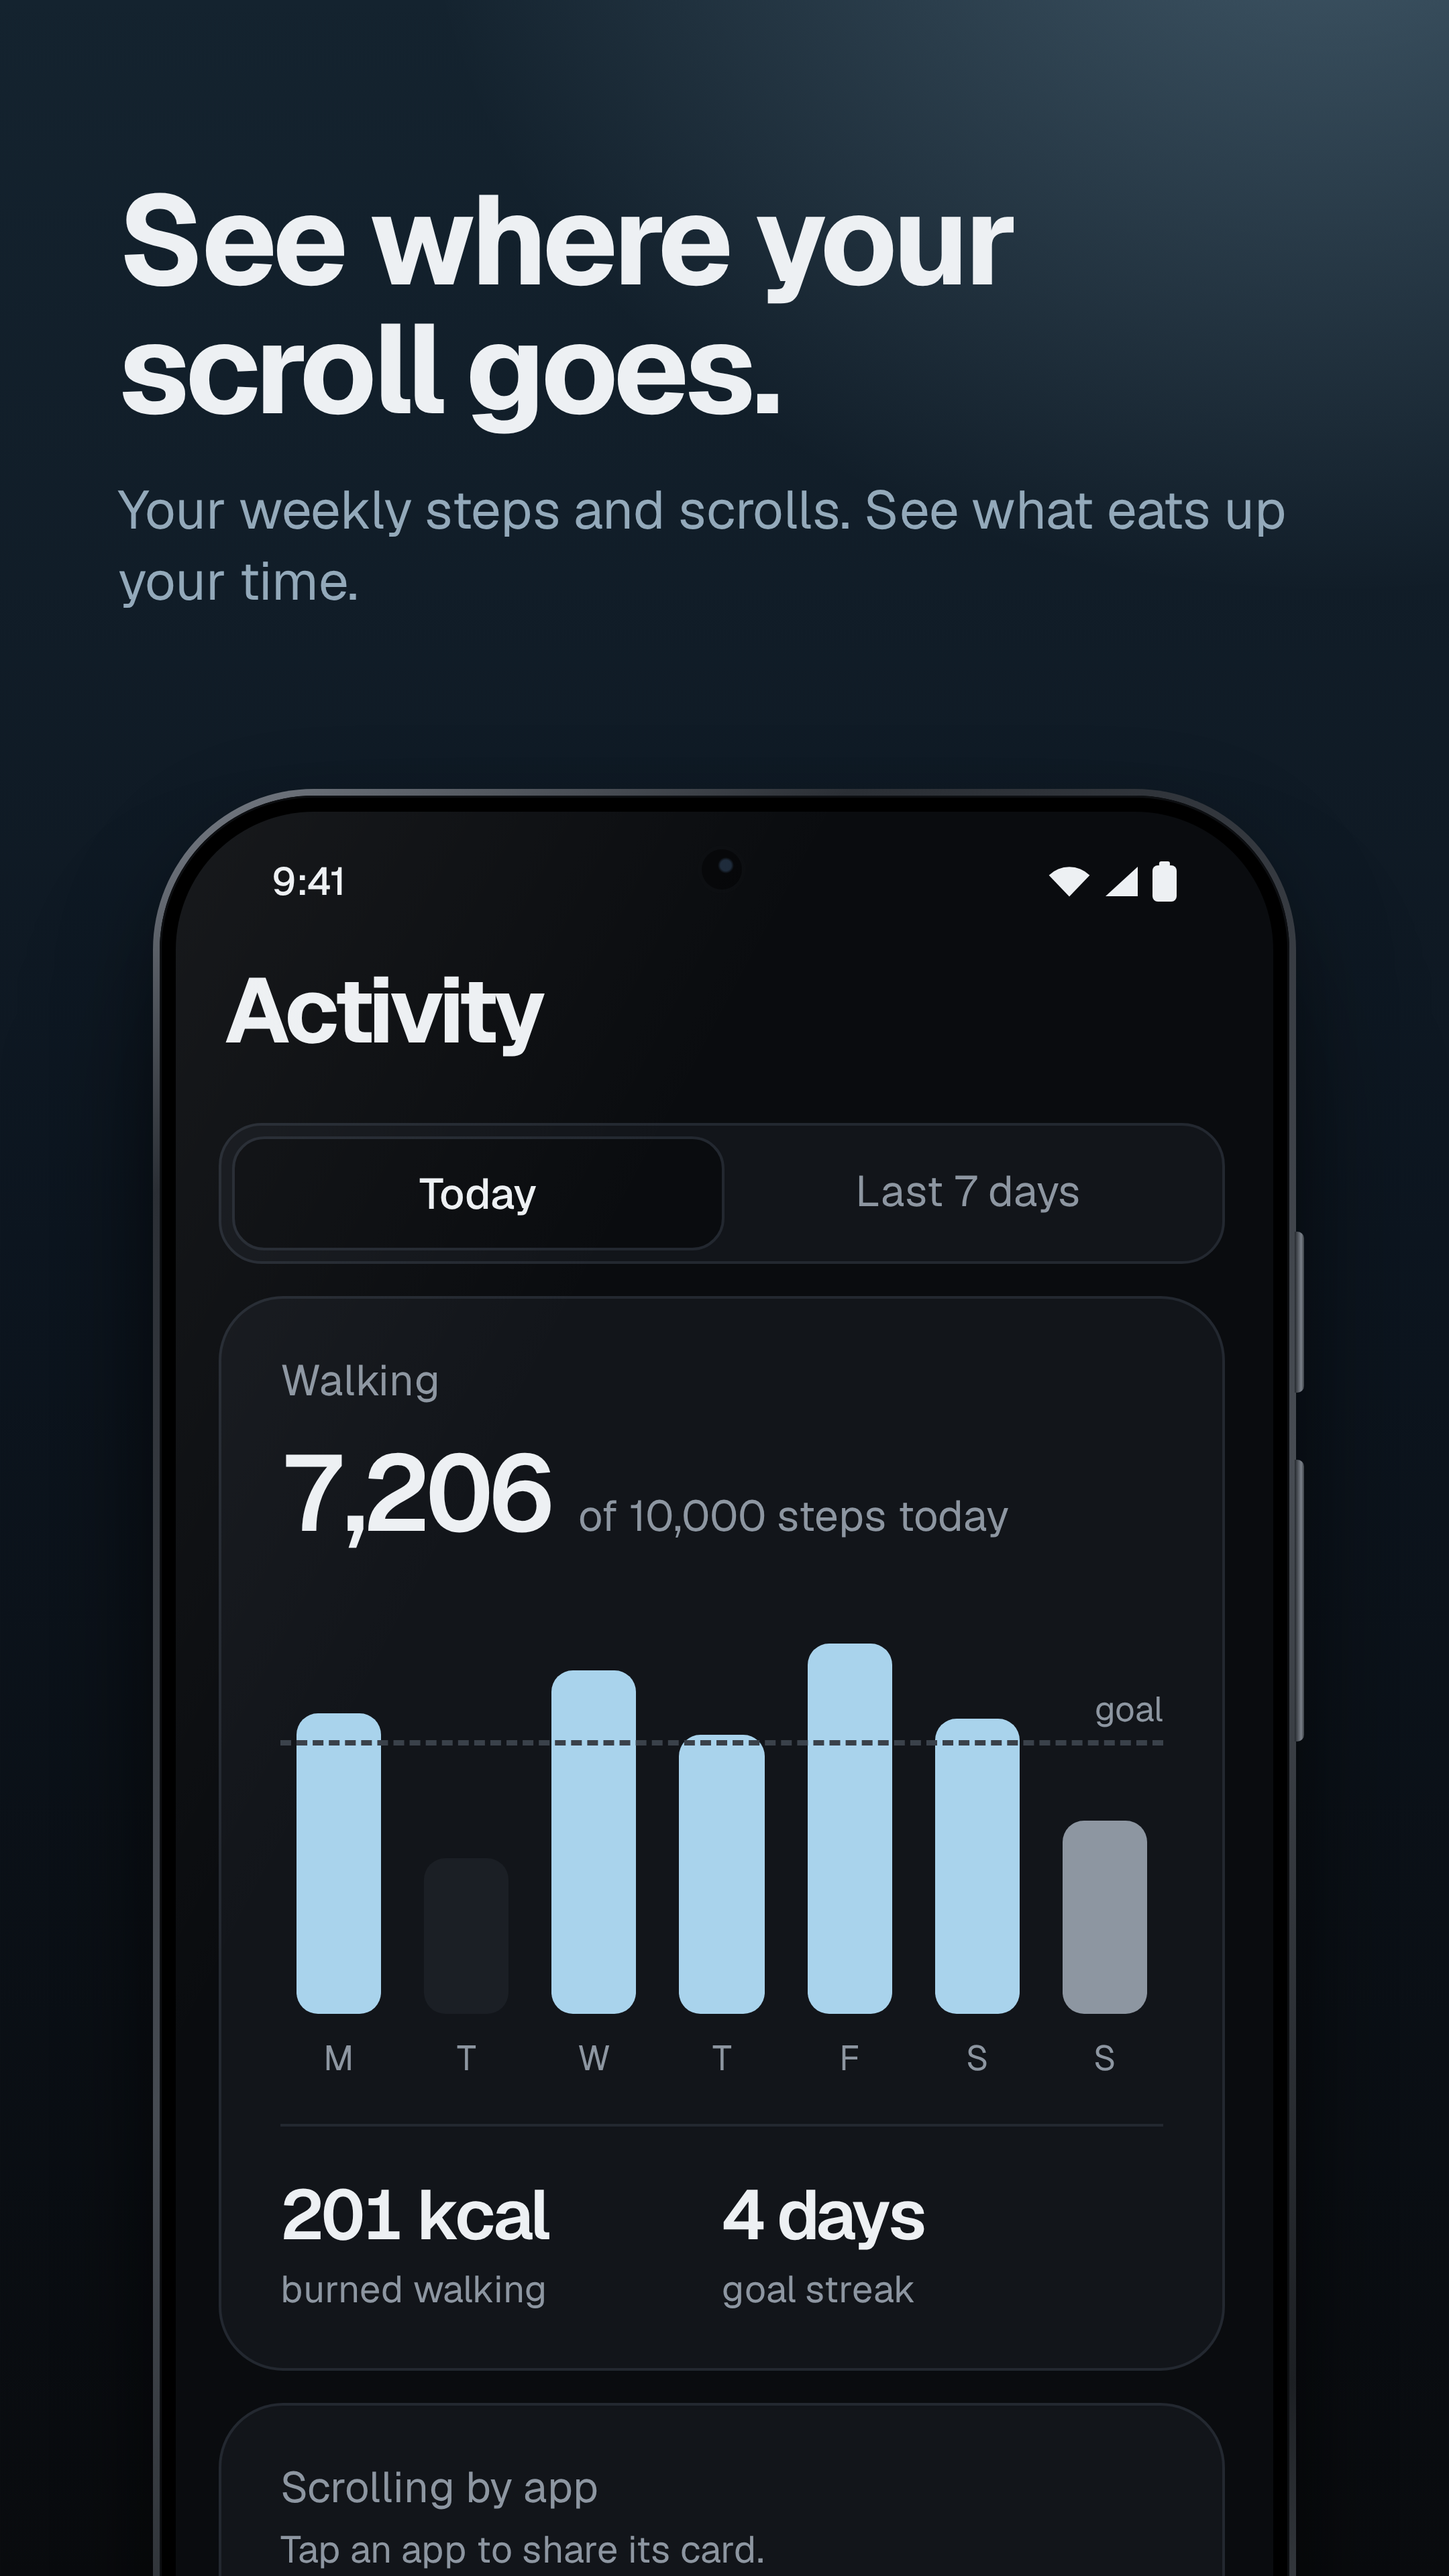
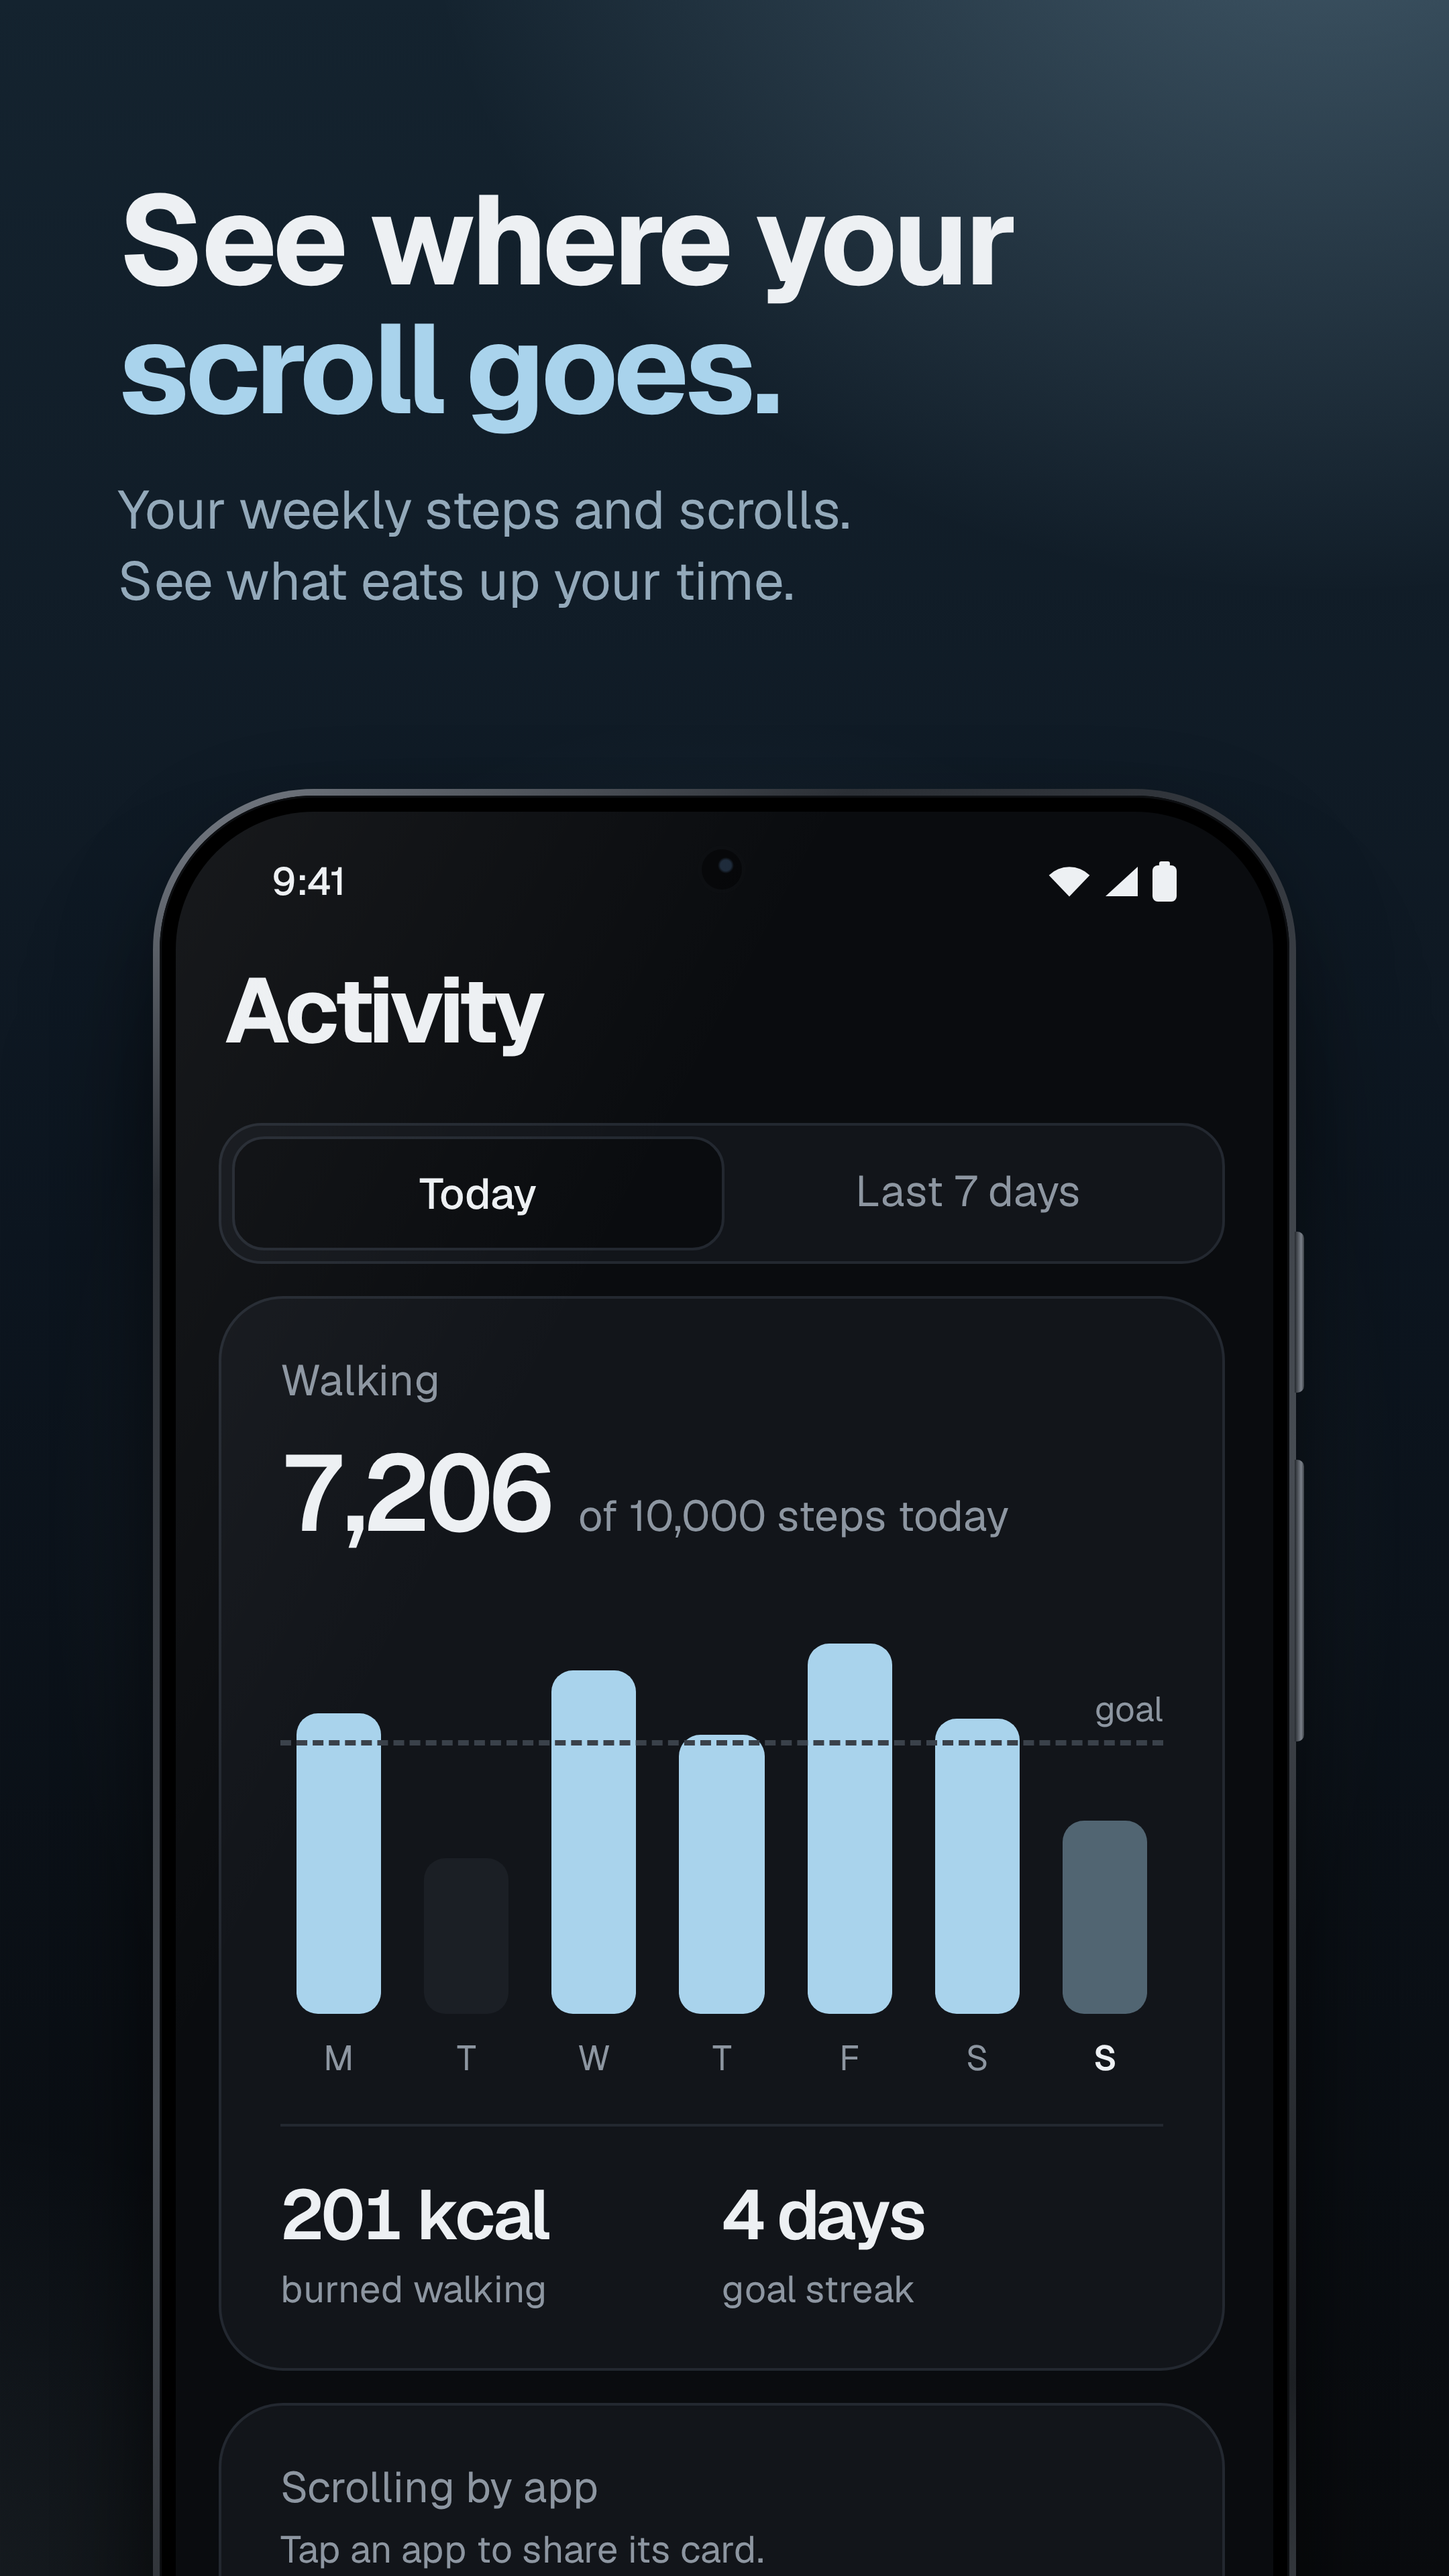
update google play store graphics

diff --git a/docs/graphics/src/graphics.html b/docs/graphics/src/graphics.html
@@ -25,14 +25,16 @@ body { margin: 0; background: #333; font-family: Geist, sans-serif; color: var(-
 
 /* ---------- canvas ---------- */
 .shot {
-  width: 1080px; height: 1920px; position: relative; overflow: hidden; margin-bottom: 40px;
+  width: 1080px; height: 1920px; position: relative; overflow: hidden; isolation: isolate; margin-bottom: 40px;
   background:
     radial-gradient(1100px 900px at 92% -6%, rgba(169,211,236,.30), rgba(169,211,236,0) 62%),
+    radial-gradient(900px 700px at -10% 104%, rgba(169,211,236,.10), rgba(169,211,236,0) 60%),
     linear-gradient(180deg, #14232f 0%, #0d1620 48%, #0A0C0F 100%);
 }
 .head { position: absolute; left: 88px; right: 88px; top: 132px; }
 .head h1 { margin: 0; font-size: 94px; line-height: 1.02; letter-spacing: -3px; font-weight: 700; color: var(--text); }
-.head p { margin: 30px 0 0; font-size: 40px; line-height: 1.32; color: var(--onHeroMuted); letter-spacing: -.2px; }
+.head h1 em, .feature h1 em { font-style: normal; color: var(--accent); }
+.head p { text-wrap: balance; margin: 30px 0 0; font-size: 40px; line-height: 1.32; color: var(--onHeroMuted); letter-spacing: -.2px; }
 
 /* ---------- phone: thin metal rail, slim black bezel, side keys ---------- */
 .phone {
@@ -41,6 +43,8 @@ body { margin: 0; background: #333; font-family: Geist, sans-serif; color: var(-
   background: linear-gradient(150deg, #7a8089 0%, #2b2f35 14%, #474c53 46%, #1c1f23 78%, #686e76 100%);
   box-shadow: 0 90px 160px -40px rgba(0,0,0,.8), 0 30px 70px rgba(0,0,0,.35);
 }
+.phone::before { content: ""; position: absolute; inset: -60px -80px 30%; z-index: -1; border-radius: 50%;
+  background: radial-gradient(closest-side, rgba(169,211,236,.16), rgba(169,211,236,0)); }
 .phone .key { position: absolute; right: -6px; width: 7px; border-radius: 0 5px 5px 0;
   background: linear-gradient(90deg, #25292e, #7a8089 70%, #3a3f45); }
 .phone .key.p { top: 330px; height: 120px; }
@@ -91,7 +95,7 @@ body { margin: 0; background: #333; font-family: Geist, sans-serif; color: var(-
 .climb { padding: 22px; }
 .climb .pct { font-size: 32px; font-weight: 600; letter-spacing: -1px; }
 .climb .of { font-size: 16.5px; line-height: 1.35; margin-top: 2px; }
-.climb .rest { font-size: 14px; color: var(--muted); margin-top: 8px; line-height: 1.45; }
+.climb .rest { text-wrap: pretty; font-size: 14px; color: var(--muted); margin-top: 8px; line-height: 1.45; }
 .climb hr { border: 0; border-top: 1px solid var(--hairline); margin: 14px 0; }
 
 /* instagram-style feed */
@@ -151,7 +155,7 @@ body { margin: 0; background: #333; font-family: Geist, sans-serif; color: var(-
 .chart { position: relative; height: 150px; display: flex; align-items: flex-end; gap: 16px; padding: 0 6px; margin-top: 18px; }
 .chart .b { flex: 1; border-radius: 8px; background: var(--accent); }
 .chart .b.lo { background: #1b1f25; }
-.chart .b.cur { background: #8D96A1; }
+.chart .b.cur { background: rgba(169,211,236,.42); }
 .chart .goal { position: absolute; left: 0; right: 0; border-top: 2px dashed #3a414a; }
 .chart .goal span { position: absolute; right: 0; top: -22px; font-size: 13px; color: var(--muted); }
 .days { display: flex; gap: 16px; padding: 8px 6px 0; }
@@ -184,6 +188,7 @@ body { margin: 0; background: #333; font-family: Geist, sans-serif; color: var(-
 .feature { width: 1024px; height: 500px; position: relative; overflow: hidden;
   background:
     radial-gradient(700px 520px at 88% -10%, rgba(169,211,236,.34), rgba(169,211,236,0) 62%),
+    radial-gradient(360px 300px at 78% 62%, rgba(169,211,236,.12), rgba(169,211,236,0) 70%),
     linear-gradient(160deg, #15252f 0%, #0d1620 55%, #0A0C0F 100%); }
 .feature .txt { position: absolute; left: 72px; top: 0; bottom: 0; width: 560px; display: flex; flex-direction: column; justify-content: center; }
 .feature .brand { display: flex; align-items: center; gap: 16px; font-size: 34px; font-weight: 600; letter-spacing: -.6px; }
@@ -240,7 +245,7 @@ body { margin: 0; background: #333; font-family: Geist, sans-serif; color: var(-
 <!-- 1. Today -->
 <section class="shot" id="s1">
   <div class="head">
-    <h1>Want to scroll?<br>Walk first.</h1>
+    <h1>Want to scroll?<br><em>Walk first.</em></h1>
     <p>Every step you take earns you metres of scrolling.</p>
   </div>
   <div class="phone" data-phone><div class="bezel"><div class="screen"><div class="app">
@@ -252,7 +257,7 @@ body { margin: 0; background: #333; font-family: Geist, sans-serif; color: var(-
       <div class="card climb">
         <div class="pct num">66%</div>
         <div class="of">of the way along a blue whale</div>
-        <div class="rest num">10.0 m to go. You've scrolled 20.0 m today.</div>
+        <div class="rest num">10.0&nbsp;m to go. You've scrolled 20.0&nbsp;m today.</div>
         <div style="display:flex;justify-content:center;margin-top:16px" data-whale></div>
       </div>
     </div>
@@ -262,7 +267,7 @@ body { margin: 0; background: #333; font-family: Geist, sans-serif; color: var(-
 <!-- 2. Blocked -->
 <section class="shot" id="s2">
   <div class="head">
-    <h1>Out of scrolling?<br>Go for a walk.</h1>
+    <h1>Out of scrolling?<br><em>Go for a walk.</em></h1>
     <p>Your addicting apps lock up until you take a walk. Calls, maps and messages always work.</p>
   </div>
   <div class="phone" data-phone><div class="bezel"><div class="screen"><div class="app">
@@ -313,7 +318,7 @@ body { margin: 0; background: #333; font-family: Geist, sans-serif; color: var(-
 <!-- 4. Price ladder -->
 <section class="shot" id="s4">
   <div class="head">
-    <h1>The more you scroll,<br>the more you walk.</h1>
+    <h1>The more you scroll,<br><em>the more you walk.</em></h1>
     <p>Every 50m you scroll today makes the next walk longer.</p>
   </div>
   <div class="phone" data-phone><div class="bezel"><div class="screen"><div class="app">
@@ -331,7 +336,8 @@ body { margin: 0; background: #333; font-family: Geist, sans-serif; color: var(-
           <div class="r"><span class="a">200m+</span><span class="b">70× (max)</span><span class="c">2,800 steps</span></div>
         </div>
         <div class="note"><i class="ph">&#xe490;</i><span>Three emergency passes a day unlock everything for five minutes.</span></div>
-        <div class="note"><i class="ph">&#xe432;</i><span>Gentle, Balanced or Strict. Bank size from 20 to 100m.</span></div>
+        <div class="note"><i class="ph">&#xe432;</i><span>Pick how strict it is. Bank size from 20&nbsp;to&nbsp;100m.</span></div>
+        <div class="seg" style="margin:16px 6px 0;background:var(--ink)"><div>Gentle</div><div class="on" style="background:var(--accentC);color:var(--onAccentC);border-color:transparent">Balanced</div><div>Strict</div></div>
       </div>
     </div>
   </div></div></div></div>
@@ -340,7 +346,7 @@ body { margin: 0; background: #333; font-family: Geist, sans-serif; color: var(-
 <!-- 5. Activity -->
 <section class="shot" id="s5">
   <div class="head">
-    <h1>See where your<br>scroll goes.</h1>
+    <h1>See where your<br><em>scroll goes.</em></h1>
     <p>Your weekly steps and scrolls. See what eats up your time.</p>
   </div>
   <div class="phone" data-phone><div class="bezel"><div class="screen"><div class="app">
@@ -361,7 +367,7 @@ body { margin: 0; background: #333; font-family: Geist, sans-serif; color: var(-
           <div class="b" style="height:110px"></div>
           <div class="b cur" style="height:72px"></div>
         </div>
-        <div class="days"><span>M</span><span>T</span><span>W</span><span>T</span><span>F</span><span>S</span><span>S</span></div>
+        <div class="days"><span>M</span><span>T</span><span>W</span><span>T</span><span>F</span><span>S</span><span style="color:var(--text);font-weight:600">S</span></div>
         <div class="stats">
           <div><b class="num">201 kcal</b><small>burned walking</small></div>
           <div><b class="num">4 days</b><small>goal streak</small></div>
@@ -380,7 +386,7 @@ body { margin: 0; background: #333; font-family: Geist, sans-serif; color: var(-
 <!-- 6. Landmarks -->
 <section class="shot" id="s6">
   <div class="head">
-    <h1>Scroll in giraffes<br>and Eiffel Towers.</h1>
+    <h1>Scroll in giraffes<br><em>and Eiffel Towers.</em></h1>
     <p>See how far your thumb really travels, then share the damage.</p>
   </div>
   <div class="phone" data-phone><div class="bezel"><div class="screen"><div class="app">
@@ -392,7 +398,7 @@ body { margin: 0; background: #333; font-family: Geist, sans-serif; color: var(-
           <div style="flex:1;min-width:0">
             <div class="pct num">66%</div>
             <div class="of">of the way up the Eiffel Tower</div>
-            <div class="rest num">110.0 m to go. You've scrolled 220.0 m today.</div>
+            <div class="rest num">110.0&nbsp;m to go. You've scrolled 220.0&nbsp;m today.</div>
           </div>
           <svg width="79" height="132" viewBox="0 0 60 100" style="flex:none;overflow:visible">
             <defs>
@@ -437,7 +443,7 @@ body { margin: 0; background: #333; font-family: Geist, sans-serif; color: var(-
 <section class="feature" id="feature">
   <div class="txt">
     <div class="brand"><span data-logo data-size="44" style="display:flex;color:#fff"></span>DoomWalk</div>
-    <h1>Want to scroll?<br>Take a walk first.</h1>
+    <h1>Want to scroll?<br><em>Take a walk first.</em></h1>
     <p>Your steps earn you scrolling.<br>Out of steps? Go touch grass.</p>
   </div>
   <div class="mini"><div class="bezel"><div class="screen"><div class="app">
@@ -446,7 +452,11 @@ body { margin: 0; background: #333; font-family: Geist, sans-serif; color: var(-
       <div class="title">Today</div>
       <div data-today></div>
       <div class="section">Today's climb</div>
-      <div class="card" style="height:300px"></div>
+      <div class="card climb" style="height:300px">
+        <div class="pct num">66%</div>
+        <div class="of">of the way along a blue whale</div>
+        <div style="display:flex;justify-content:center;margin-top:16px" data-whale></div>
+      </div>
     </div>
   </div></div></div></div>
 </section>
